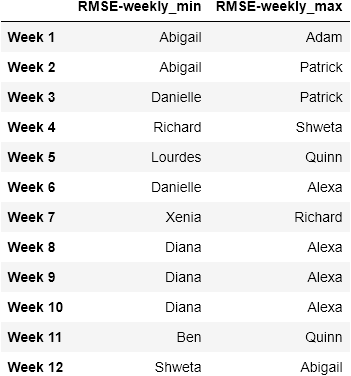
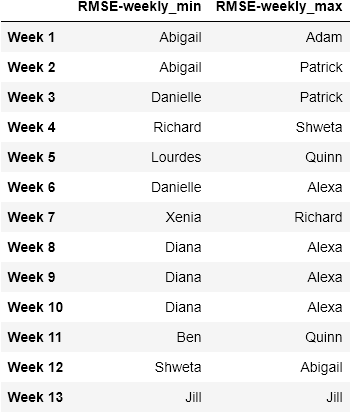
variance work added

diff --git a/evaluation_scripts/forecast_analysis.py b/evaluation_scripts/forecast_analysis.py
@@ -158,60 +158,78 @@ Overall_Seas_Min = mean_RMSE_df.sort_values(by=["Overall_Seasonal_Average-RMSE"]
 dfi.export(Overall_Seas_Min, "all_charts/Overall_Seasonal_Average-RMSE.png")
 Overall_Seas_Min
 
+# %%
+# Calculates the seasonal RMSEvariance per person (for each column)/
+# over all weeks (seasonal forecast entries)
+vary_RMSE = seasonal_rmse.var(axis=0)
+
+# %%
+# Converts mean_weekly_RMSE series to df
+vary_RMSE_df = vary_RMSE.to_frame(name = "Overall_Seasonal_Variance-RMSE")
+
+# %%
+# Sort dataframe by values acsending to get top 3 "winners"
+# print dataframe to a PNG
+Overall_Seas_Vary = vary_RMSE_df.sort_values(by=["Overall_Seasonal_Variance-RMSE"], ascending=True)
+dfi.export(Overall_Seas_Min, "all_charts/Overall_Seasonal_Variance-RMSE.png")
+Overall_Seas_Vary
+
 # Week 13 additions end (Adam, Jill)
 
-# %%
-# Probably will be use as bonus input? Still to be worked on later in the week.
-weekly_rmse_mean = pd.DataFrame(weekly_rmse.mean(axis=1)).sort_values(0)
-seasonal_rmse_mean = pd.DataFrame(seasonal_rmse.mean(axis=0)).sort_values(0)
+# # %%
+# # Probably will be use as bonus input? Still to be worked on later in the week.
+# weekly_rmse_mean = pd.DataFrame(weekly_rmse.mean(axis=1)).sort_values(0)
+# seasonal_rmse_mean = pd.DataFrame(seasonal_rmse.mean(axis=0)).sort_values(0)
 
-# %% Week 7 addition, format new dataframes for
-# weekly plotting, and assign same index
-# trim and tanspose to make plotting easier
-weekly_forecast1w_graph = weekly_forecast1w.iloc[:, 0:forecast_week-1].T
-weekly_forecast2w_graph = weekly_forecast2w.iloc[:, 0:forecast_week-1].T
-
-
-# %% Week 9 Addition: Plot results using the functions from plot_functions
-
-# Plot 1 and 2 Week forecasts values for each student
-
-pf.plot_class_forecasts(weekly_forecast1w_graph.T, weekly_flows, 1,
-                        'forecast')
-pf.plot_class_forecasts(weekly_forecast2w_graph.T, weekly_flows, 2,
-                        'forecast')
+# # %% Week 7 addition, format new dataframes for
+# # weekly plotting, and assign same index
+# # trim and tanspose to make plotting easier
+# weekly_forecast1w_graph = weekly_forecast1w.iloc[:, 0:forecast_week-1].T
+# weekly_forecast2w_graph = weekly_forecast2w.iloc[:, 0:forecast_week-1].T
 
 
-# %%
-# Plot errors (deviation) in 1 and 2 Week forecasts values for each student
+# # %% Week 9 Addition: Plot results using the functions from plot_functions
 
-pf.plot_class_forecasts(weekly_forecast1w_graph.T, weekly_flows, 1, # removed '-1' from weekly_flows to make the imput 1 equal to Week_1!
-                        'abs_error')
-pf.plot_class_forecasts(weekly_forecast2w_graph.T, weekly_flows, 2, # removed '-1' from weekly_flows to make the imput 1 equal to Week_1!
-                        'abs_error')
+# # Plot 1 and 2 Week forecasts values for each student
 
-
-# %%
-# Plot the evolution of the forecasts for the HAS-Tools Class
-# Use 'box' as the last parameter to plot a box-whiskers plot.
-# Use 'plot' as the last parameter to plot the summary as series
-
-# 1 Week Forecast
-pf.plot_class_summary(weekly_forecast1w_graph.T, weekly_flows, 1, 'box')
-
-# 2 Week Forecast
-pf.plot_class_summary(weekly_forecast1w_graph.T, weekly_flows, 2, 'box')
+# pf.plot_class_forecasts(weekly_forecast1w_graph.T, weekly_flows, 1,
+#                         'forecast')
+# pf.plot_class_forecasts(weekly_forecast2w_graph.T, weekly_flows, 2,
+#                         'forecast')
 
 
-# %%
-# Week 10 plots of root mean square errors
+# # %%
+# # Plot errors (deviation) in 1 and 2 Week forecasts values for each student
 
-# Line plot of the seasonal root mean square error
-rmse_sea_path = "all_charts/Seasonal_Root_Mean_Square_Error1.png"
-pf.plot_seasonal_rmse(rmse_sea_path, seasonal_rmse)
+# pf.plot_class_forecasts(weekly_forecast1w_graph.T, weekly_flows, 1, # removed '-1' from weekly_flows to make the imput 1 equal to Week_1!
+#                         'abs_error')
+# pf.plot_class_forecasts(weekly_forecast2w_graph.T, weekly_flows, 2, # removed '-1' from weekly_flows to make the imput 1 equal to Week_1!
+#                         'abs_error')
 
-# Histogram of the weekly root mean square error
-rmse_his_path = "all_charts/Root_Mean_Square_Error_Histogram1.png"
-pf.rmse_histogram(rmse_his_path, weekly_rmse)
+
+# # %%
+# # Plot the evolution of the forecasts for the HAS-Tools Class
+# # Use 'box' as the last parameter to plot a box-whiskers plot.
+# # Use 'plot' as the last parameter to plot the summary as series
+
+# # 1 Week Forecast
+# pf.plot_class_summary(weekly_forecast1w_graph.T, weekly_flows, 1, 'box')
+
+# # 2 Week Forecast
+# pf.plot_class_summary(weekly_forecast1w_graph.T, weekly_flows, 2, 'box')
+
+
+# # %%
+# # Week 10 plots of root mean square errors
+
+# # Line plot of the seasonal root mean square error
+# rmse_sea_path = "all_charts/Seasonal_Root_Mean_Square_Error1.png"
+# pf.plot_seasonal_rmse(rmse_sea_path, seasonal_rmse)
+
+# # Histogram of the weekly root mean square error
+# rmse_his_path = "all_charts/Root_Mean_Square_Error_Histogram1.png"
+# pf.rmse_histogram(rmse_his_path, weekly_rmse)
+
+# # %%
 
 # %%
